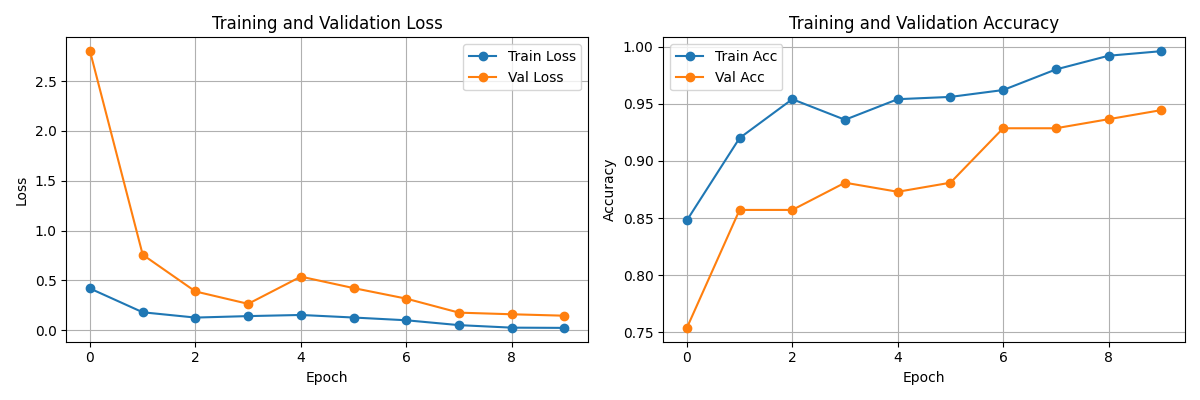
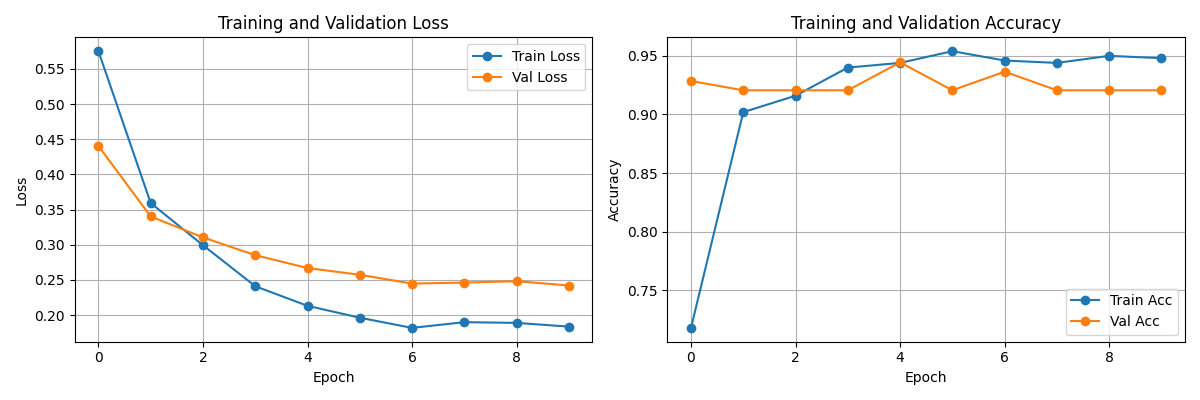
changed model from resnet18 to efficientnet_b3 to prepare for ai detector

diff --git a/classifier.py b/classifier.py
@@ -15,7 +15,7 @@ VAL_DIR = f'{DATA_DIR}/data-files/validation'
 
 BATCH_SIZE = 32
 NUM_EPOCHS = 10
-LEARNING_RATE = 0.1
+LEARNING_RATE = 0.001
 NUM_WORKERS = 2  # For data loading (0 if on Windows)
 
 # Device configuration
@@ -80,21 +80,21 @@ print(f"Training batches: {len(train_loader)}")
 print("\nLoading pre-trained model...")
 
 # Load ResNet18 pre-trained on ImageNet
-model = models.resnet18(weights=ResNet18_Weights.DEFAULT)
+model = models.efficientnet_b3(weights=models.EfficientNet_B3_Weights.DEFAULT)
 
-# Freeze early layers (optional - speeds up training)
-# Uncomment these lines if you want to only train the last layer
-# for param in model.parameters():
-#     param.requires_grad = False
+for param in model.parameters():
+    param.requires_grad = False
 
-# Replace final layer for our number of classes
 num_classes = len(train_dataset.classes)
-model.fc = nn.Linear(model.fc.in_features, num_classes)
+num_ftrs = model.classifier[1].in_features
+model.classifier[1] = nn.Linear(num_ftrs, num_classes)
+
+print(model)
 
 # Move model to device
 model = model.to(device)
 
-print(f"Model loaded: ResNet18")
+print(f"Model loaded: EfficientNet_B3")
 print(f"Final layer modified for {num_classes} classes")
 
 # ============ TRAINING SETUP ============
